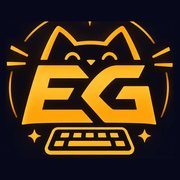
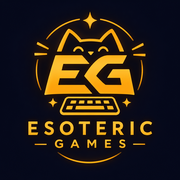
Use the official art pack, Splatterdunk Discord and store-only copy
Claude-Session: https://claude.ai/code/session_01KCBaoJxvcKufmJRYtfyxos

diff --git a/_includes/head.html b/_includes/head.html
@@ -3,7 +3,7 @@
 <script>document.documentElement.classList.add("js")</script>
 {%- capture page_title -%}{% if page.layout == 'game' %}{{ page.title }}{% if page.subtitle %}: {{ page.subtitle }}{% endif %} press kit | {{ site.title }}{% elsif page.title %}{{ page.title }} | {{ site.title }}{% else %}{{ site.title }}: {{ site.tagline }}{% endif %}{%- endcapture -%}
 {%- capture page_desc -%}{% if page.summary %}{{ page.summary | strip_newlines }}{% elsif page.description %}{{ page.description }}{% else %}{{ site.description | strip_newlines }}{% endif %}{%- endcapture -%}
-{%- if page.layout == 'game' and page.steam -%}{%- capture og_image -%}{{ site.url }}/assets/games/{{ page.slug }}/press/capsule-616x353.jpg{%- endcapture -%}{%- else -%}{%- capture og_image -%}{{ site.url }}/assets/brand/og.jpg{%- endcapture -%}{%- endif -%}
+{%- if page.layout == 'game' and page.steam -%}{%- capture og_image -%}{{ site.url }}/assets/games/{{ page.slug }}/press/{{ page.slug }}-main-capsule-1232x706.jpg{%- endcapture -%}{%- else -%}{%- capture og_image -%}{{ site.url }}/assets/brand/og.jpg{%- endcapture -%}{%- endif -%}
 <title>{{ page_title }}</title>
 <meta name="description" content="{{ page_desc | escape }}">
 <link rel="canonical" href="{{ site.url }}{{ page.url | replace: 'index.html', '' }}">
@@ -16,7 +16,6 @@
 <meta name="twitter:card" content="summary_large_image">
 <meta name="theme-color" content="#07091b">
 <link rel="icon" href="/favicon.ico" sizes="any">
-<link rel="icon" type="image/png" href="/assets/brand/favicon-96.png" sizes="96x96">
 <link rel="apple-touch-icon" href="/apple-touch-icon.png">
 <link rel="preload" href="/assets/fonts/barlow-semi-condensed-600.woff2" as="font" type="font/woff2" crossorigin>
 <link rel="preload" href="/assets/fonts/barlow-400.woff2" as="font" type="font/woff2" crossorigin>

diff --git a/_layouts/game.html b/_layouts/game.html
@@ -82,12 +82,14 @@ body_class: kit
     <p class="muted">Select a screenshot to download it at full size (1920 x 1080).</p>
     <ul class="shots plain">
       {%- for i in (1..4) %}
-      <li><a class="frame" href="/assets/games/{{ g.slug }}/press/screenshot-{{ i }}.jpg" download><img src="/assets/games/{{ g.slug }}/shot-{{ i }}.webp" alt="{{ g.title }} screenshot {{ i }}" width="800" height="450" loading="lazy"></a></li>
+      <li><a class="frame" href="/assets/games/{{ g.slug }}/press/screenshot-{{ i }}.jpg" download="{{ g.slug }}-screenshot-{{ i }}.jpg"><img src="/assets/games/{{ g.slug }}/shot-{{ i }}.webp" alt="{{ g.title }} screenshot {{ i }}" width="800" height="450" loading="lazy"></a></li>
       {%- endfor %}
     </ul>
     <ul class="plain downloads">
-      <li><a href="/assets/games/{{ g.slug }}/press/capsule-616x353.jpg" download>Capsule art, JPG, 616 x 353</a></li>
-      <li><a href="/assets/games/{{ g.slug }}/press/header-460x215.jpg" download>Header art, JPG, 460 x 215</a></li>
+      <li><a href="/assets/games/{{ g.slug }}/press/{{ g.slug }}-main-capsule-1232x706.jpg" download>Main capsule, JPG, 1232 x 706</a></li>
+      <li><a href="/assets/games/{{ g.slug }}/press/{{ g.slug }}-header-capsule-920x430.jpg" download>Header capsule, JPG, 920 x 430</a></li>
+      <li><a href="/assets/games/{{ g.slug }}/press/{{ g.slug }}-library-hero-1920x620.jpg" download>Library hero, JPG, 1920 x 620</a></li>
+      <li><a href="/assets/games/{{ g.slug }}/press/{{ g.slug }}-library-capsule-600x900.jpg" download>Library capsule (portrait), JPG, 600 x 900</a></li>
       {%- for a in g.extra_assets %}
       <li><a href="/assets/games/{{ g.slug }}/{{ a.file }}" download>{{ a.label }}, WebP</a></li>
       {%- endfor %}

diff --git a/_includes/art.html b/_includes/art.html
@@ -1,6 +1,6 @@
 {%- assign g = include.game -%}
 {%- if g.steam -%}
-<img src="/assets/games/{{ g.slug }}/capsule.webp" alt="{{ g.title }} key art" width="616" height="353"{% if include.lazy %} loading="lazy"{% endif %}>
+<img src="/assets/games/{{ g.slug }}/capsule.webp" alt="{{ g.title }} key art" width="1232" height="706"{% if include.lazy %} loading="lazy"{% endif %}>
 {%- else -%}
 <span class="art-placeholder" role="img" aria-label="{{ g.title }}: art coming soon">
   <svg class="sparkle s1" aria-hidden="true"><use href="#sparkle"/></svg>

diff --git a/index.html b/index.html
@@ -137,7 +137,7 @@ body_class: home
       <h3>Studio logo</h3>
       <ul class="plain downloads">
         <li><a href="/assets/brand/esoteric-games-logo.png" download>Full logo, PNG, 1254 x 1254</a></li>
-        <li><a href="/assets/brand/mark-512.png" download>Cat mark, PNG, 512 x 512</a></li>
+        <li><a href="/assets/brand/esoteric-games-logo-512.png" download>Logo, PNG, 512 x 512</a></li>
         <li><a href="/assets/brand/youtube-banner.jpg" download>Studio banner, JPG, 1280 x 720</a></li>
       </ul>
     </div>

diff --git a/_includes/header.html b/_includes/header.html
@@ -2,7 +2,7 @@
 <header class="topbar">
   <nav class="topbar-inner" aria-label="Main">
     <a class="brand" href="/" aria-label="Esoteric Games home">
-      <img src="/assets/brand/favicon-96.png" alt="" width="40" height="40">
+      <img src="/assets/brand/nav-mark.png" alt="" width="40" height="40">
       <span>Esoteric Games</span>
     </a>
     <button class="menu-toggle" type="button" aria-expanded="false" aria-controls="site-nav"><svg class="sparkle" aria-hidden="true"><use href="#sparkle"/></svg>Menu</button>

diff --git a/PRODUCT.md b/PRODUCT.md
@@ -39,8 +39,8 @@ Catalog (source: YouTube channel descriptions as of 2026-11-17, the current site
 | Typers Combat 2: Type Harder | Coming 2027. 3D typing fighting game: story mode, 10 bonus stages, custom fighter, 90+ executions | Steam 5431760 | VSwJLIRWDoU (official, gore off) |
 | Splatterdunk | Coming Q2 2027. 90s-arcade mutant monster basketball, 2v2 or 3v3, trick dunks, fatalities, up to 6 local players | Steam 5535250 | G5AJTYUbXP0 |
 | Graftlands | Coming to Early Access. Body-grid auto-battler: 400+ parts, 22 starting mutants | Steam 5551850 | GTLaHuImpvQ (gameplay) |
-| Collateral Glory | 2-player online co-op mech satire ("two pilots, one mech") | OPEN: no store link found | BnDokx4N1RE (official), h-9aV_8XlKY (finishers) |
-| Queenright | Beekeeping simulator | OPEN: no store link found | 7BS-K1jDF4w (announcement), PT_3qP_GjfI |
+| Collateral Glory | Coming soon. 2-player online co-op mech satire | Steam 5460140 | BnDokx4N1RE (official), h-9aV_8XlKY (finishers) |
+| Queenright: A Beekeeping Simulator | Coming soon | Steam 5431710 | 7BS-K1jDF4w (announcement), PT_3qP_GjfI |
 
 Non-game project, confirmed to appear on the site in its own area (not mixed into the games):
 
@@ -52,7 +52,6 @@ Constraints:
 - Privacy.html exists; the site footer links an external privacy policy instead.
 
 Open decisions:
-- Which Discord invite is canonical: the site uses discord.gg/M84GFkQEvN; channel descriptions use discord.gg/4w6Qth93Pk (Graftlands) and discord.gg/82p23Fguj2 (Synthient). Possibly one server per project.
 - Whether every game gets a full press kit page or a shared kit format.
 
 ## Brand Commitments
@@ -60,14 +59,16 @@ Open decisions:
 - Studio name: Esoteric Games. Domain esotericgames.dev.
 - A new studio logo exists and replaces the current ESOTERIC//GAMES wordmark (file pending from the developer).
 - Contact: guyverphd@esotericgames.dev.
+- Discord (confirmed 2026-11-17): studio server discord.gg/M84GFkQEvN is the site default; Graftlands uses discord.gg/4w6Qth93Pk, Splatterdunk discord.gg/hpmaJrXQBK, Synthient discord.gg/82p23Fguj2.
+- Copy rule (confirmed 2026-11-17): game copy comes only from the developer's pitches or the live Steam store pages. Do not add features that are not listed there.
 - Each game has its own established key art and logo; game identities stay intact on the site.
 
 ## Evidence on Hand
 
 - Trailers and Shorts on YouTube (IDs above).
 - Key art and logos in assets/ for Typers Combat, Typomon Hunter and Outbreak: Type Z; capsules, screenshots and creature art in images/ (mostly Typers Combat and Typomon Hunter).
-- Steam capsule, header and screenshots for all eight Steam games in assets/games/<slug>/ (sourced from the developer's own Steam pages, 2026-11-18). Trailer posters in assets/posters/ (from the developer's YouTube thumbnails).
-- New studio logo and YouTube banner in assets/brand/ (supplied by the developer).
+- Official Steam art for all eight games (main capsule, header capsule, library capsule, library hero) from the developer's update pack, plus Steam screenshots, in assets/games/<slug>/. Trailer posters in assets/posters/ (from the developer's YouTube thumbnails).
+- Official studio logo (1254, 512, 180, 32 px; opaque, navy background, no transparent or SVG version yet) and YouTube banner in assets/brand/.
 - Press kit facts in typerscombat.html and typomonhunter.html (solo dev, release date, pricing).
 - No press quotes, review scores, awards, sales or player counts on record. Do not invent any.
 

diff --git a/_games/typomon-hunter.md b/_games/typomon-hunter.md
@@ -12,14 +12,14 @@ steam: 4429150
 demo: true
 stores:
   - { label: Steam, url: "https://store.steampowered.com/app/4429150/" }
-hook: A typing roguelike where you catch monsters by typing.
+hook: A typing roguelike monster collector where every keystroke is combat.
 summary: >-
   A typing roguelike monster collector where every keystroke is combat. Type sentences to
   battle and catch 93 species of Typomon, explore procedural dungeons, evolve your team,
   forge words, fuse hybrids, and climb the VS Battle ladder, all powered by your
   words-per-minute.
 features:
-  - 93 species across 8 types, all redrawn in pixel art (the classic ASCII look is one setting away)
+  - 93 species across 8 types, all redrawn in pixel art
   - Your WPM is your damage, and typos hurt your own team
   - Procedural dungeons, a one-shot Daily Dungeon leaderboard and 10 levels of Ascension
   - Evolution, dual-type fusion, word forging and a rival hunter

diff --git a/_games/splatterdunk.md b/_games/splatterdunk.md
@@ -9,9 +9,10 @@ price: To be announced
 genre: Arcade monster basketball
 accent: "#ff8a1f"
 steam: 5535250
+discord: https://discord.gg/hpmaJrXQBK
 stores:
   - { label: Steam, url: "https://store.steampowered.com/app/5535250/" }
-hook: 90s-arcade monster basketball where the fouls are fatal.
+hook: 90s-arcade basketball where the players are monsters and the fouls are fatal.
 summary: >-
   90s-arcade 2-on-2 or 3-on-3 basketball where the players are monsters and the fouls are
   fatal. Chain trick dunks, arm Fatalities, bribe the ref and dunk on monsters through the

diff --git a/_games/graftlands.md b/_games/graftlands.md
@@ -13,7 +13,7 @@ steam: 5551850
 discord: https://discord.gg/4w6Qth93Pk
 stores:
   - { label: Steam, url: "https://store.steampowered.com/app/5551850/Graftlands/" }
-hook: "A body-grid auto-battler: your mutant's body is the inventory."
+hook: Graft stolen limbs, organs and weapons onto your mutant. Its body is the inventory.
 summary: >-
   Graft stolen limbs, organs and weapons onto your mutant. Its body is the inventory: every
   part takes a real slot on its body and changes how it fights. Then watch it tear through

diff --git a/_games/outbreak-type-z.md b/_games/outbreak-type-z.md
@@ -11,7 +11,7 @@ accent: "#3dff8f"
 steam: 4468060
 stores:
   - { label: Steam, url: "https://store.steampowered.com/app/4468060/Outbreak_Type_Z/" }
-hook: Type a zombie's word and it goes down. Or play it as a shooter.
+hook: Your keyboard is the gun. Don't want to type? Play it as a shooter.
 summary: >-
   Your keyboard is the gun. Type to drop zombies in an isometric city that rebuilds every
   run. A story campaign, LAST STAND horde survival and an endless mode, with deadly special

diff --git a/_games/typers-combat.md b/_games/typers-combat.md
@@ -23,7 +23,7 @@ features:
   - Live ranked PvP with ELO matchmaking and global leaderboards
   - "Ghost Battles: share a code and fight a friend's recorded run"
   - Cross-play with Android, where the game is free
-  - 50+ unlockable ASCII portraits, plus frames, colors and effects
+  - 50+ unlockable portraits for your ASCII warrior
 trailers:
   - { id: IhHbE_3vkW4, title: Official Trailer }
   - { id: 5LAaaWLn0pw, title: "Update Trailer: Free on Android" }

diff --git a/_games/collateral-glory.md b/_games/collateral-glory.md
@@ -11,7 +11,7 @@ accent: "#e3342f"
 steam: 5460140
 stores:
   - { label: Steam, url: "https://store.steampowered.com/app/5460140/" }
-hook: Two pilots, one 30-story mech, zero coordination.
+hook: Two pilots, one 30-story Walker, zero coordination.
 summary: >-
   Two pilots, one 30-story Walker, zero coordination. Each of you runs one leg and one arm:
   stride into the Civic District as one, trade punches with an Ultrafauna, hoist it overhead
